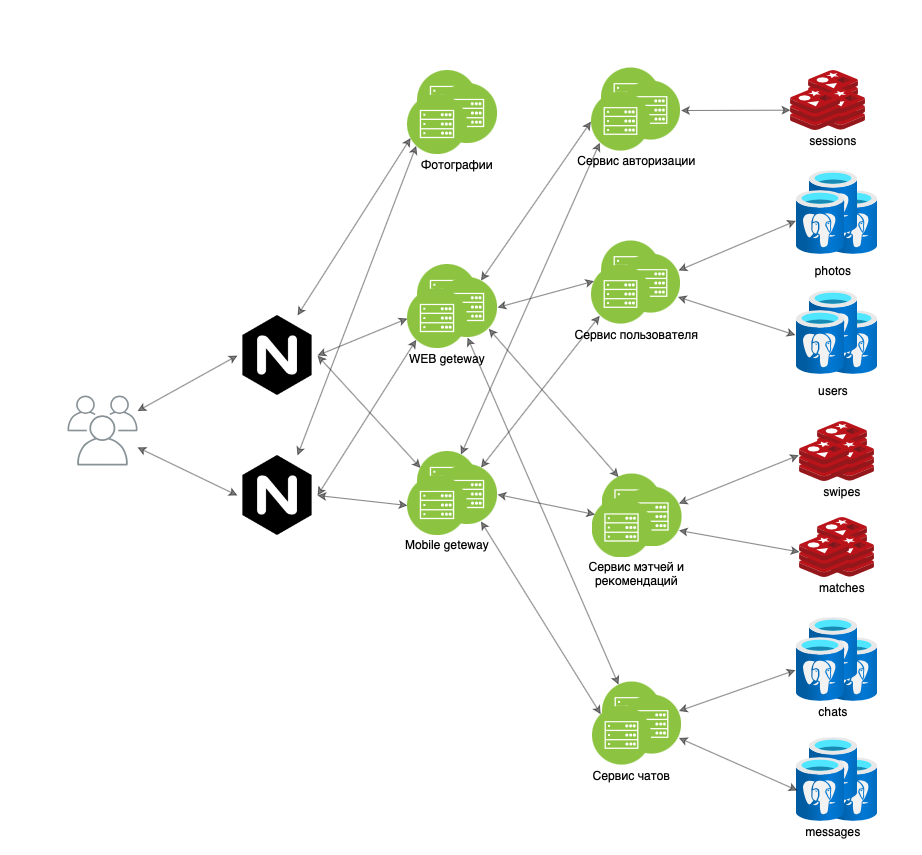
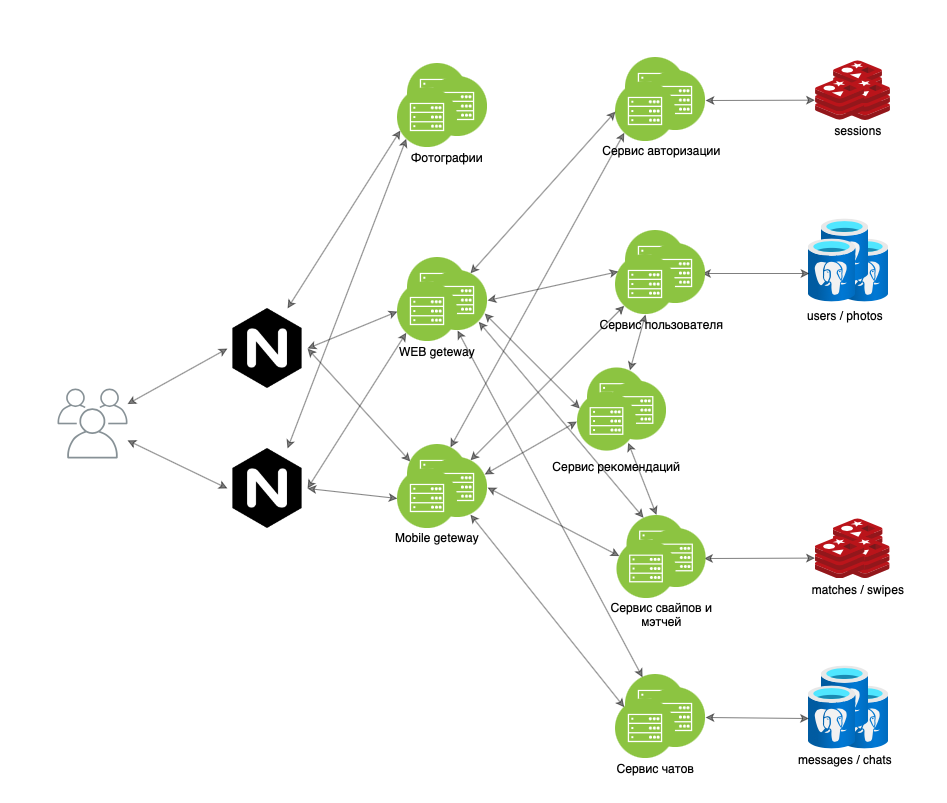
Update README.md

diff --git a/README.md b/README.md
@@ -80,17 +80,24 @@
 
 ### RPS по типам запросов
 
+
+#### Профили
+
+	Запросы на создание и изменение профиля:
+	
+	(100e3 + 60e3) / (24 * 60 * 60) ≈ 2 RPS
+
+	Профиль пользователя должен подгружаться при каждом свайпе:
+
+	400e6 / (24 * 60 * 60) ≈ 4630 RPS
+
+
 #### Свайпы
 
 	Запросы на запись:
 
 	400e6 / (24 * 60 * 60) ≈ 4630 RPS
 
-При очередном свайпе необходимо выдать следующего рекомендованного человека. Для этого необходимо произвести запрос за подходящими профилями и за свайпами, чтобы проверить полученные профили на повторения. Предположим, что данную информацию будем запрашивать пачками по 10 штук, т.е. 40 млн раз.
-
-	Запросы на получение:
-
-	40e6 / (24 * 60 * 60) ≈ 463 RPS
 
 #### Мэтчи
 
@@ -103,6 +110,16 @@
 
 	12e6 / (24 * 60 * 60) ≈ 139 RPS
 
+
+#### Рекомендации
+
+При очередном свайпе необходимо выдать следующего рекомендованного человека. Рекомендательная система будет основана на свайпах и профилях. Сервис рекомендаций будет выдавать по несколько рекомендуемых людей за раз, чтобы заранее высчитывать рекомендации. Выдавать будет по 4 профиля, чтобы рекомендации были актуальны.
+
+	Запросы на получение:
+
+	400e6 / 4 / (24 * 60 * 60) ≈ 1157 RPS
+
+
 #### Чаты
 
 	Запросы на запись:
@@ -114,6 +131,7 @@
 
 	12e6 / (24 * 60 * 60) ≈ 139 RPS
 
+
 #### Сообщения
 
 	Запросы на запись:
@@ -124,19 +142,6 @@
 
 	12e6 * 5 / (24 * 60 * 60) ≈ 694 RPS
 
-#### Профили
-
-	Запросы на создание и изменение профиля:
-	
-	(100e3 + 60e3) / (24 * 60 * 60) ≈ 2 RPS
-
-	Профиль пользователя должен подгружаться при каждом свайпе:
-
-	400e6 / (24 * 60 * 60) ≈ 4630 RPS
-
-	Также запросы для рекомендаций:
-
-	40e6 / (24 * 60 * 60) ≈ 463 RPS
 
 #### Фотографии
 
@@ -149,11 +154,12 @@
 
 |Сущность|RPS|
 | -------------  | :-------------:  |
-|Свайпы|5093|
+|Профили пользователей|4632|
+|Свайпы|4630|
 |Мэтчи|174|
+|Рекомендации|1157|
 |Чаты|163|
 |Сообщения|1180|
-|Профили пользователей|5095|
 |Фотографии|13889|
 
 
@@ -307,8 +313,9 @@
 | -------------  | :-------------:  | :-------------:  | :-------------: | :-------------: |
 |Сервис авторизации|32|128|256|2 + 4|
 |Сервис пользователя|32|128|256|3 + 6|
-|Сервис мэтчей и рекомендаций|32|128|256|3 + 6|
+|Сервис свайпов и мэтчей|32|128|256|3 + 6|
 |Сервис чатов|32|128|256|2 + 4|
+|Сервис рекомендаций|32|128|256|2 + 4|
 |БД|32|128|256|(14 + 28) + <br> (141 / мес + 282 / мес)|
 |Фотографии|32|128|16384|17 + 34|
 |Фронтенд|32|128|256|3 + 6|
